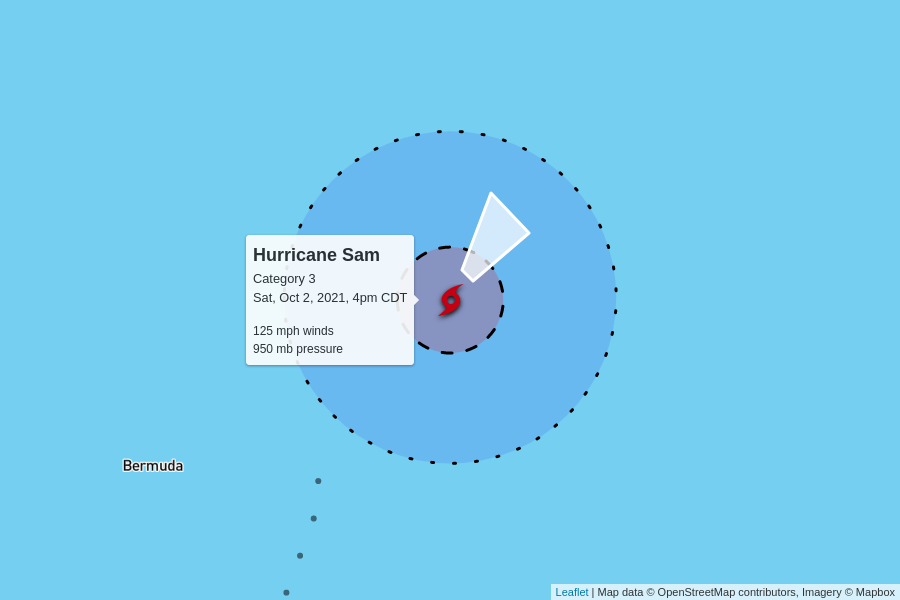
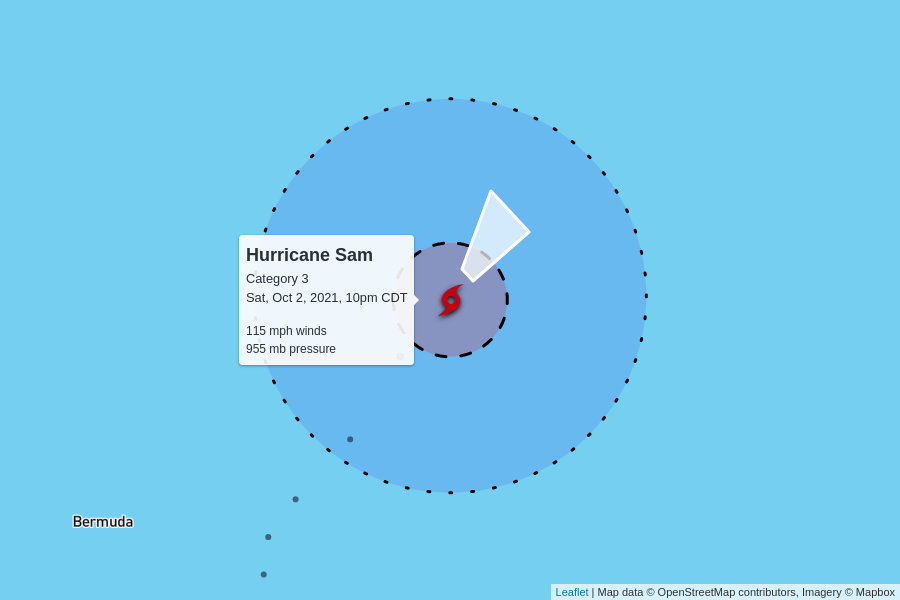
automatic update

diff --git a/docs/index.html b/docs/index.html
@@ -100,7 +100,7 @@
         <td colspan="6" class="storm category-3" >
           <h2>
             Hurricane Sam - Category 3
-            <p class="updated">last updated <span data-time>2021-10-02T21:00:00.000Z</span></p>
+            <p class="updated">last updated <span data-time>2021-10-03T03:00:00.000Z</span></p>
           </h2>
         </td>
       </tr>
@@ -115,10 +115,10 @@
       </tr>
       <tr>
         <td class="spacer"></td>
-        <td>125 mph</td>
-        <td>950 mb</td>
+        <td>115 mph</td>
+        <td>955 mb</td>
         <td>
-          17 mph to the northeast
+          16 mph to the northeast
           <br/>
           <span style="display: inline-block; font-size: 1.5em; transform: rotate(40deg);">↑</span>
         </td>
@@ -144,7 +144,7 @@
         <td colspan="6" class="storm category-0" >
           <h2>
             Tropical Depression Victor
-            <p class="updated">last updated <span data-time>2021-10-02T21:00:00.000Z</span></p>
+            <p class="updated">last updated <span data-time>2021-10-03T03:00:00.000Z</span></p>
           </h2>
         </td>
       </tr>
@@ -160,7 +160,7 @@
       <tr>
         <td class="spacer"></td>
         <td>35 mph</td>
-        <td>1007 mb</td>
+        <td>1005 mb</td>
         <td>
           14 mph to the northwest
           <br/>
